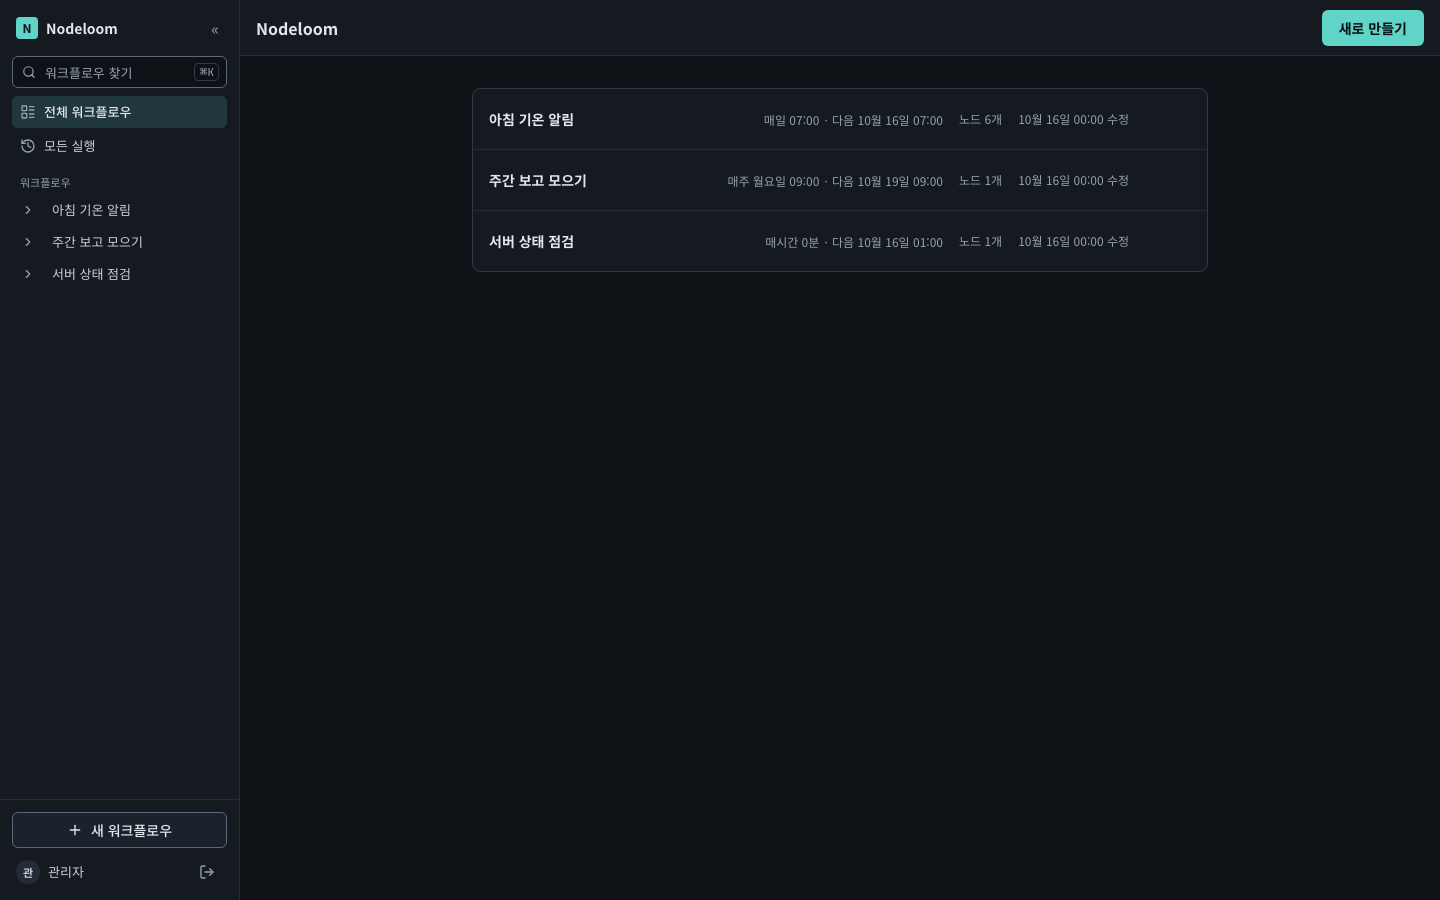
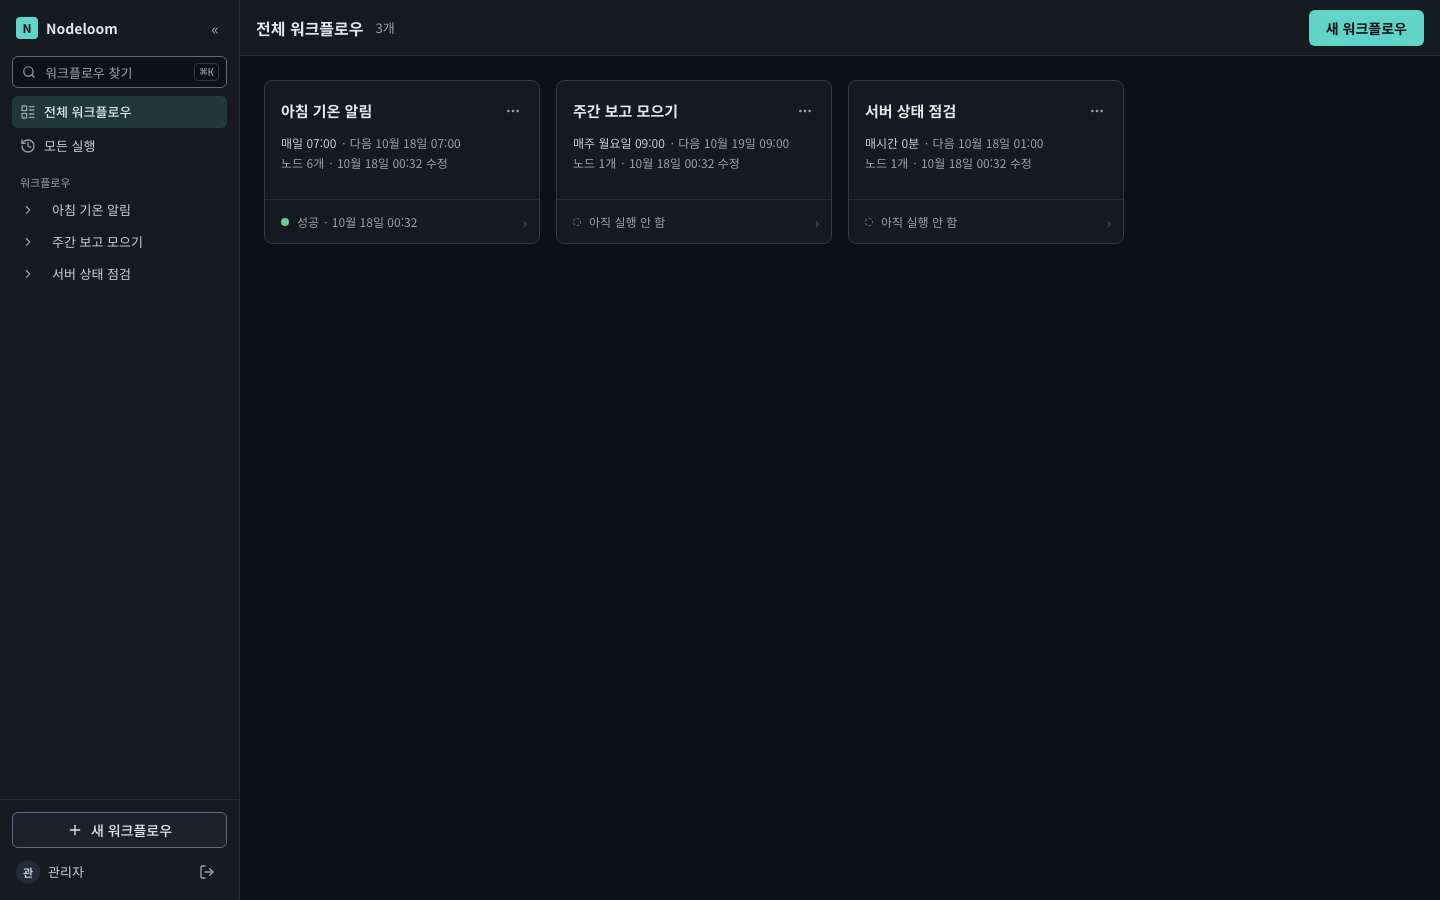
docs: README 화면 이미지 다시 찍기
목록 이미지를 카드 격자 화면으로 바꾸고 설명을 맞춘다. 실행 상세 이미지는 시각만 바뀐다.

diff --git a/README.md b/README.md
@@ -21,7 +21,7 @@
 
 ![실행 상세](docs/images/run-detail.png)
 
-**워크플로우 목록:** 스케줄과 다음 실행 시각을 함께 보여 준다.
+**워크플로우 목록:** 카드마다 스케줄과 다음 실행 시각, 마지막 실행 상태를 보여 준다. 아래 상태 줄을 누르면 그 워크플로우의 실행 기록으로 간다.
 
 ![워크플로우 목록](docs/images/list.png)
 
